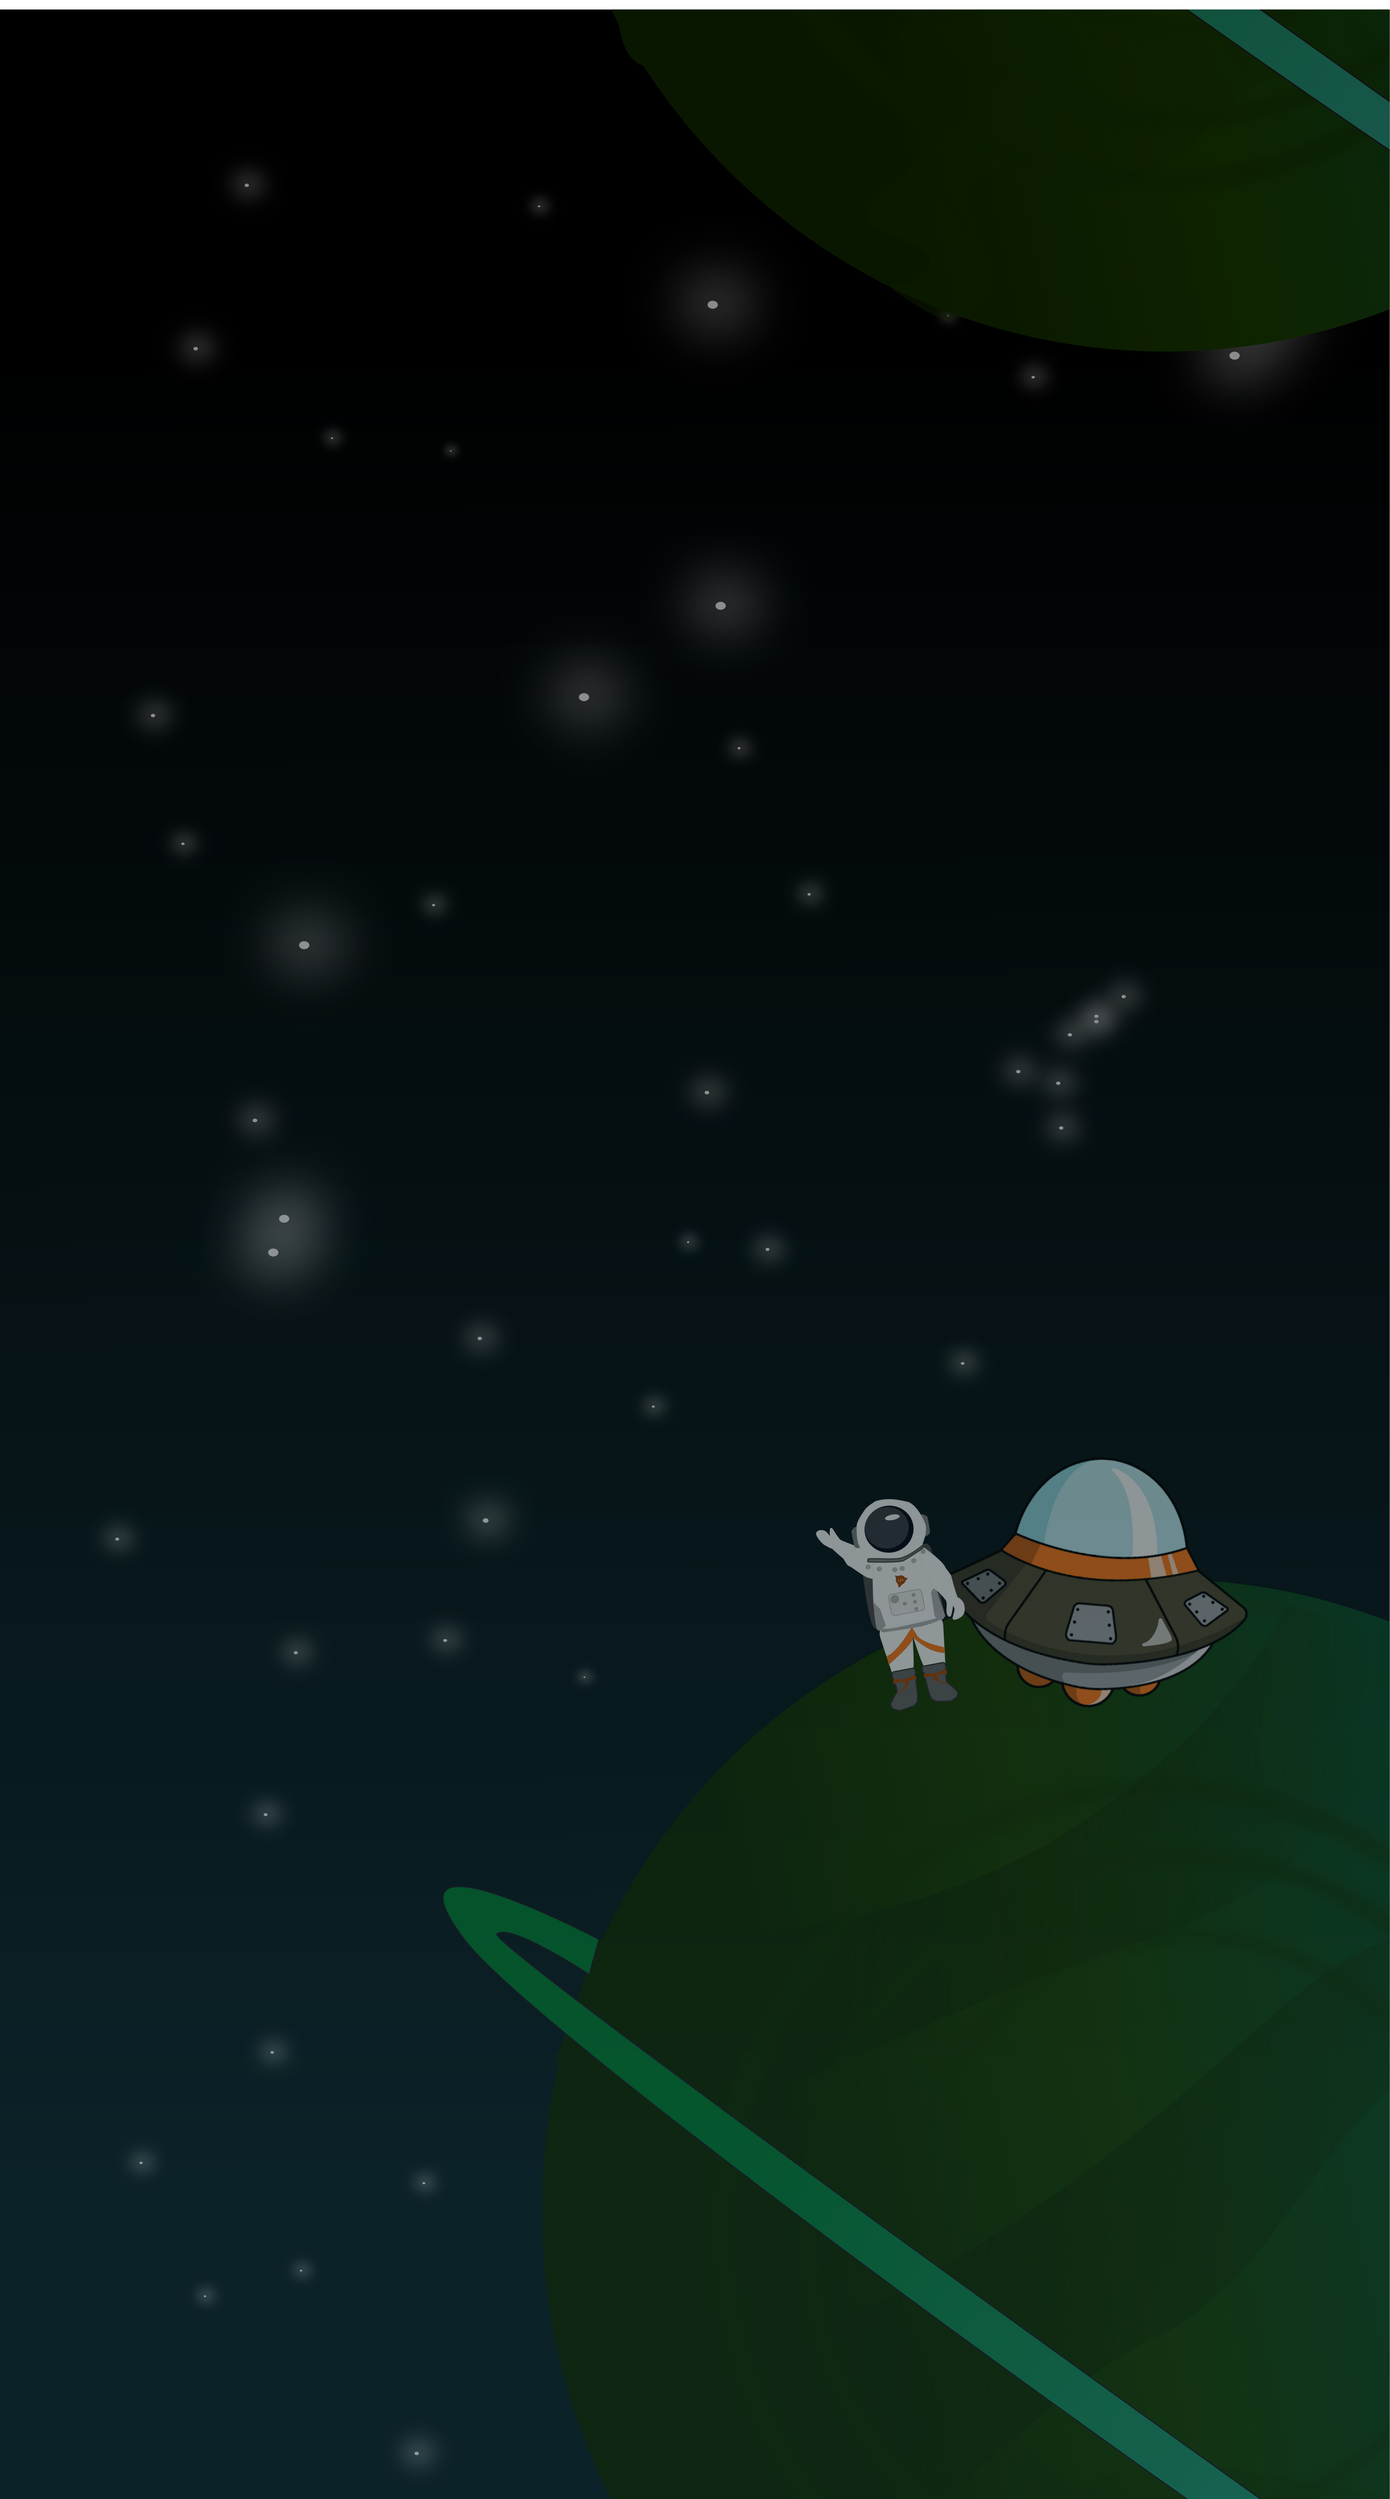
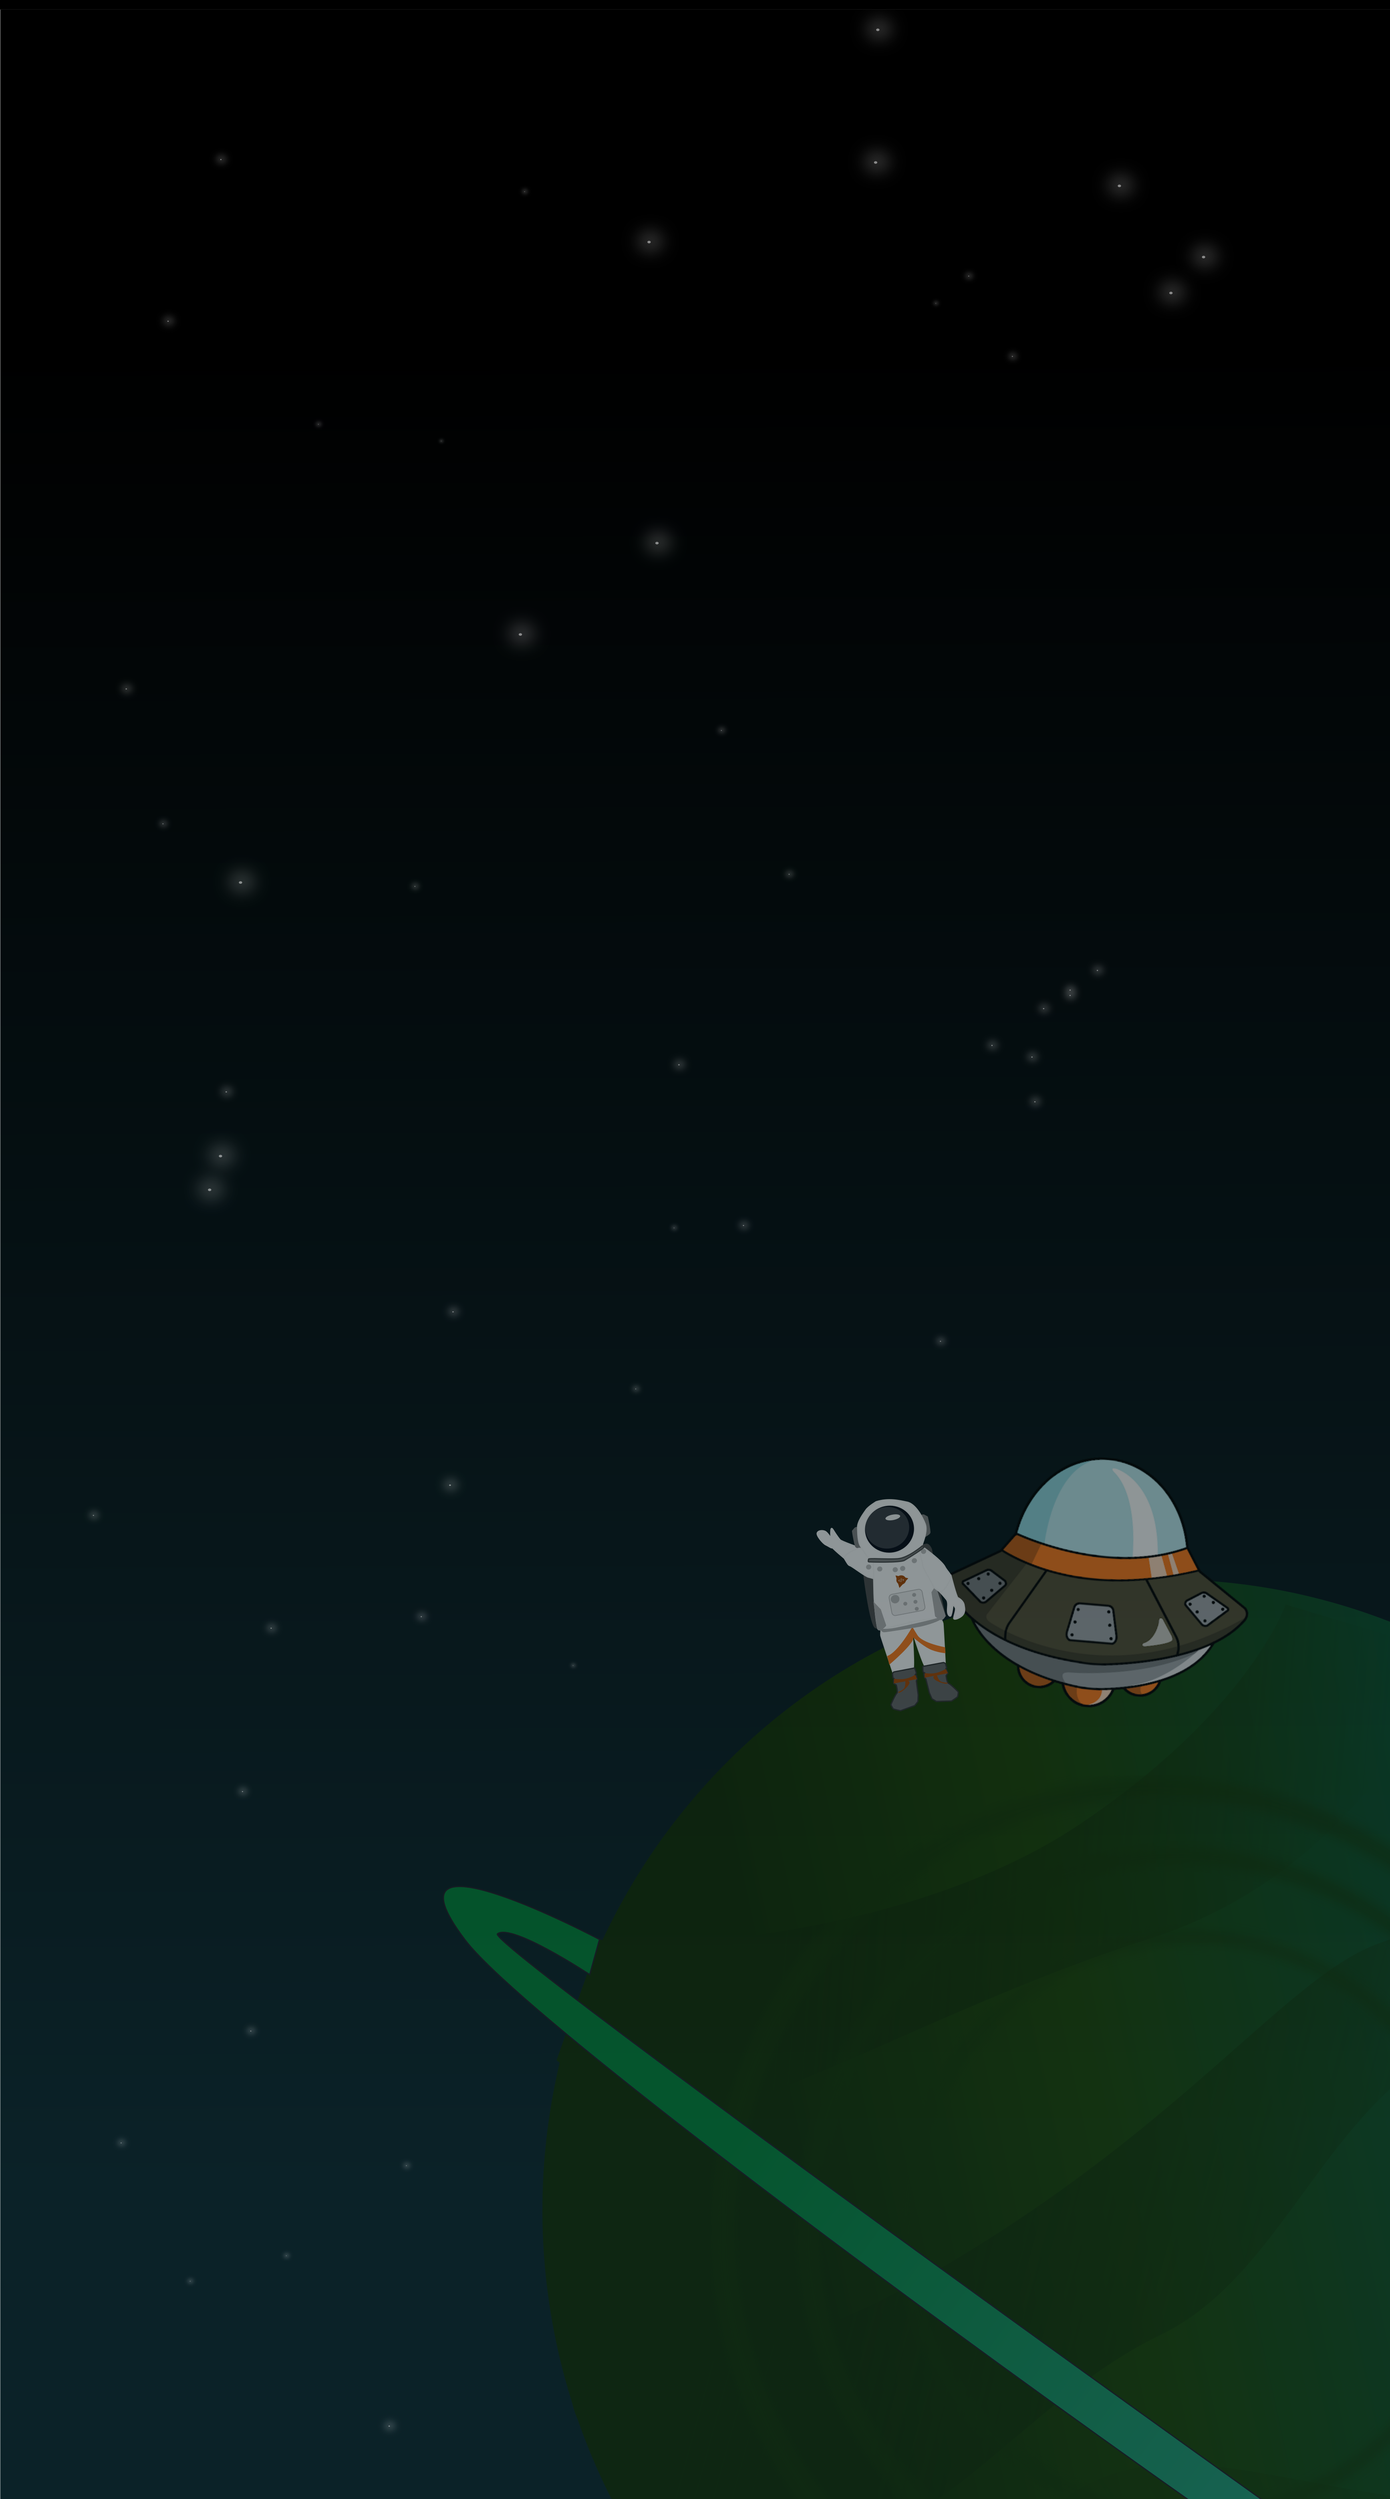
Image Updates

diff --git a/lib/main.dart b/lib/main.dart
@@ -34,7 +34,7 @@ class _MyHomePageState extends State<MyHomePage> {
 
   Widget build(BuildContext context) {
     return Scaffold(
-      backgroundColor: Colors.transparent,
+      backgroundColor: Colors.black,
       appBar: AppBar(
         /*flexibleSpace: ClipRRect(
           borderRadius: BorderRadius.only(
@@ -67,7 +67,7 @@ class _MyHomePageState extends State<MyHomePage> {
                   CircleAvatar(
                     radius: 58,
                     backgroundColor: Colors.black87,
-                    backgroundImage: AssetImage("images/danodin.jpg"),
+                    backgroundImage: AssetImage("assets/images/danodin.jpg"),
                     /*NetworkImage(
                         "https://4.bp.blogspot.com/-Jx21kNqFSTU/UXemtqPhZCI/AAAAAAAAh74/BMGSzpU6F48/s1600/funny-cat-pictures-047-001.jpg"),*/
                   ),
@@ -118,7 +118,7 @@ class MyPage1Widget extends StatelessWidget {
     return Stack(
       children: <Widget>[
         Image.asset(
-          "images/section_A.png",
+          "assets/images/section_A.png",
           height: MediaQuery.of(context).size.height,
           width: MediaQuery.of(context).size.width,
           fit: BoxFit.cover,
@@ -182,7 +182,7 @@ class MyPage2Widget extends StatelessWidget {
     return Stack(
       children: <Widget>[
         Image.asset(
-          "images/section_A.png",
+          "assets/images/section_B.png",
           height: MediaQuery.of(context).size.height,
           width: MediaQuery.of(context).size.width,
           fit: BoxFit.cover,
@@ -220,19 +220,19 @@ class MyPage3Widget extends StatelessWidget {
   @override
   Widget build(BuildContext context) {
     List<String> images = [
-      "images/skill1.png",
-      "images/skill2.png",
-      "images/skill3.png",
-      "images/skill4.png",
-      "images/skill5.png",
-      "images/skill6.png",
-      "images/skill7.png",
-      "images/skill8.png",
-      "images/skill9.png"
+      "assets/images/skill1.png",
+      "assets/images/skill2.png",
+      "assets/images/skill3.png",
+      "assets/images/skill4.png",
+      "assets/images/skill5.png",
+      "assets/images/skill6.png",
+      "assets/images/skill7.png",
+      "assets/images/skill8.png",
+      "assets/images/skill9.png"
     ];
     return Stack(children: <Widget>[
       Image.asset(
-        "images/section_A.png",
+        "assets/images/section_C.png",
         height: MediaQuery.of(context).size.height,
         width: MediaQuery.of(context).size.width,
         fit: BoxFit.cover,
@@ -252,7 +252,7 @@ class MyPage3Widget extends StatelessWidget {
                 })),
       ),
       Container(
-        height: 600,
+        height: 800,
         width: 900,
         alignment: Alignment.bottomCenter,
         margin: EdgeInsets.only(left: 5, right: 5, top: 0),
@@ -277,138 +277,141 @@ class MyPage4Widget extends StatelessWidget {
     return Stack(
       children: <Widget>[
         Image.asset(
-          "images/section_A.png",
+          "assets/images/section_D.png",
           height: MediaQuery.of(context).size.height,
           width: MediaQuery.of(context).size.width,
           fit: BoxFit.cover,
         ),
         SafeArea(
-          child: Column(
-            children: <Widget>[
-              Container(
-                height: 27,
-                width: 900,
-                alignment: Alignment.topCenter,
-                margin: EdgeInsets.only(left: 5, right: 5, top: 5),
-                child: Text(
-                  '',
-                  textAlign: TextAlign.center,
-                  textDirection: TextDirection.ltr,
-                  style: TextStyle(
-                      fontSize: 18,
-                      color: Colors.white,
-                      fontWeight: FontWeight.bold),
+          child: Expanded(
+            child: Column(
+              children: <Widget>[
+                Container(
+                  height: 27,
+                  width: 900,
+                  alignment: Alignment.topCenter,
+                  margin: EdgeInsets.only(left: 5, right: 5, top: 120),
+                  child: Text(
+                    '',
+                    textAlign: TextAlign.center,
+                    textDirection: TextDirection.ltr,
+                    style: TextStyle(
+                        fontSize: 18,
+                        color: Colors.white,
+                        fontWeight: FontWeight.bold),
+                  ),
                 ),
-              ),
-              SizedBox(height: 20),
-              Card(
-                shadowColor: Colors.red,
-                elevation: 8,
-                clipBehavior: Clip.antiAlias,
-                shape: RoundedRectangleBorder(
-                  borderRadius: BorderRadius.circular(15),
-                ),
-                child: Container(
-                  width: 300,
-                  decoration: BoxDecoration(
-                    gradient: LinearGradient(
-                      colors: [Colors.black87, Colors.black],
-                      begin: Alignment.topCenter,
-                      end: Alignment.bottomCenter,
+                SizedBox(height: 20),
+                Card(
+                  shadowColor: Colors.green,
+                  elevation: 3,
+                  clipBehavior: Clip.antiAlias,
+                  shape: RoundedRectangleBorder(
+                    borderRadius: BorderRadius.circular(15),
+                  ),
+                  child: Container(
+                    width: 300,
+                    decoration: BoxDecoration(
+                      gradient: LinearGradient(
+                        colors: [Colors.black87, Colors.black],
+                        begin: Alignment.topCenter,
+                        end: Alignment.bottomCenter,
+                      ),
+                    ),
+                    padding: EdgeInsets.all(10),
+                    child: Column(
+                      crossAxisAlignment: CrossAxisAlignment.start,
+                      children: <Widget>[
+                        const ListTile(
+                          leading:
+                              Icon(Icons.phone, size: 36, color: Colors.white),
+                          title: Text('+2348111774051',
+                              style: TextStyle(
+                                color: Colors.white,
+                                fontWeight: FontWeight.bold,
+                              )),
+                          /*subtitle: Text('+2348111774051',
+                              style: TextStyle(color: Colors.white)),*/
+                        ),
+                      ],
                     ),
                   ),
-                  padding: EdgeInsets.all(10),
-                  child: Column(
-                    crossAxisAlignment: CrossAxisAlignment.start,
-                    children: <Widget>[
-                      const ListTile(
-                        leading:
-                            Icon(Icons.phone, size: 36, color: Colors.white),
-                        title: Text('+2348111774051',
-                            style: TextStyle(
-                              color: Colors.white,
-                              fontWeight: FontWeight.bold,
-                            )),
-                        /*subtitle: Text('+2348111774051',
-                            style: TextStyle(color: Colors.white)),*/
-                      ),
-                    ],
+                ),
+                SizedBox(height: 21),
+                Card(
+                  shadowColor: Colors.green,
+                  elevation: 3,
+                  clipBehavior: Clip.antiAlias,
+                  shape: RoundedRectangleBorder(
+                    borderRadius: BorderRadius.circular(15),
                   ),
-                ),
-              ),
-              SizedBox(height: 21),
-              Card(
-                shadowColor: Colors.red,
-                elevation: 8,
-                clipBehavior: Clip.antiAlias,
-                shape: RoundedRectangleBorder(
-                  borderRadius: BorderRadius.circular(15),
-                ),
-                child: Container(
-                  width: 300,
-                  decoration: BoxDecoration(
-                    gradient: LinearGradient(
-                      colors: [Colors.black87, Colors.black],
-                      begin: Alignment.topCenter,
-                      end: Alignment.bottomCenter,
+                  child: Container(
+                    width: 300,
+                    decoration: BoxDecoration(
+                      gradient: LinearGradient(
+                        colors: [Colors.black87, Colors.black],
+                        begin: Alignment.topCenter,
+                        end: Alignment.bottomCenter,
+                      ),
+                    ),
+                    padding: EdgeInsets.all(10),
+                    child: Column(
+                      crossAxisAlignment: CrossAxisAlignment.start,
+                      children: <Widget>[
+                        const ListTile(
+                          leading: Icon(Icons.email_rounded,
+                              size: 36, color: Colors.white),
+                          title: Text('dpoxo@yandex.com',
+                              style: TextStyle(
+                                color: Colors.white,
+                                fontWeight: FontWeight.bold,
+                              )),
+                          /*subtitle: Text(
+                              '',
+                              style: TextStyle(color: Colors.white)),*/
+                        ),
+                      ],
                     ),
                   ),
-                  padding: EdgeInsets.all(10),
-                  child: Column(
-                    crossAxisAlignment: CrossAxisAlignment.start,
-                    children: <Widget>[
-                      const ListTile(
-                        leading: Icon(Icons.email_rounded,
-                            size: 36, color: Colors.white),
-                        title: Text('dpoxo@yandex.com',
-                            style: TextStyle(
-                              color: Colors.white,
-                              fontWeight: FontWeight.bold,
-                            )),
-                        /*subtitle: Text(
-                            '',
-                            style: TextStyle(color: Colors.white)),*/
-                      ),
-                    ],
+                ),
+                SizedBox(height: 20),
+                Card(
+                  shadowColor: Colors.green,
+                  elevation: 3,
+                  clipBehavior: Clip.antiAlias,
+                  shape: RoundedRectangleBorder(
+                    borderRadius: BorderRadius.circular(15),
                   ),
-                ),
-              ),
-              SizedBox(height: 20),
-              Card(
-                shadowColor: Colors.red,
-                elevation: 8,
-                clipBehavior: Clip.antiAlias,
-                shape: RoundedRectangleBorder(
-                  borderRadius: BorderRadius.circular(15),
-                ),
-                child: Container(
-                  width: 300,
-                  decoration: BoxDecoration(
-                    gradient: LinearGradient(
-                      colors: [Colors.black87, Colors.black],
-                      begin: Alignment.topCenter,
-                      end: Alignment.bottomCenter,
+                  child: Container(
+                    width: 300,
+                    decoration: BoxDecoration(
+                      gradient: LinearGradient(
+                        colors: [Colors.black87, Colors.black],
+                        begin: Alignment.topCenter,
+                        end: Alignment.bottomCenter,
+                      ),
+                    ),
+                    padding: EdgeInsets.all(10),
+                    child: Column(
+                      crossAxisAlignment: CrossAxisAlignment.start,
+                      children: <Widget>[
+                        const ListTile(
+                          leading:
+                              Icon(Icons.web, size: 36, color: Colors.white),
+                          title: Text('flowcv.me/danodin',
+                              style: TextStyle(
+                                color: Colors.white,
+                                fontWeight: FontWeight.bold,
+                              )),
+                          /*subtitle: Text('',
+                              style: TextStyle(color: Colors.white)),*/
+                        ),
+                      ],
                     ),
                   ),
-                  padding: EdgeInsets.all(10),
-                  child: Column(
-                    crossAxisAlignment: CrossAxisAlignment.start,
-                    children: <Widget>[
-                      const ListTile(
-                        leading: Icon(Icons.web, size: 36, color: Colors.white),
-                        title: Text('flowcv.me/danodin',
-                            style: TextStyle(
-                              color: Colors.white,
-                              fontWeight: FontWeight.bold,
-                            )),
-                        /*subtitle: Text('',
-                            style: TextStyle(color: Colors.white)),*/
-                      ),
-                    ],
-                  ),
                 ),
-              ),
-            ],
+              ],
+            ),
           ),
         )
       ],
